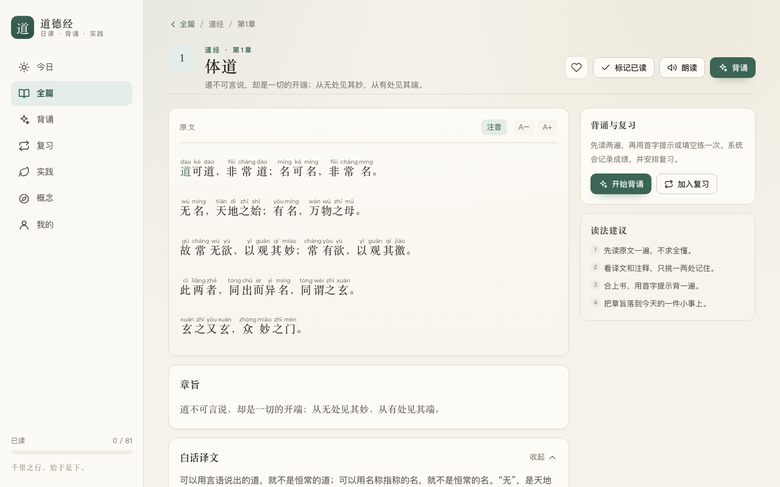
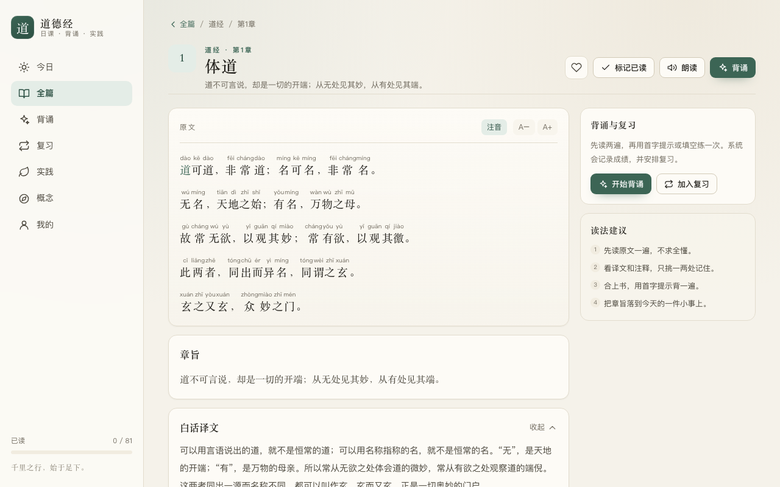
fix(chapter): 注音改用伪元素，复制原文不再粘出拼音
ruby 的 rt 会被算进选区，选中原文复制会得到「道dào可kě道dào」。
改为整字用 span 包裹、拼音走 ::after 与不可见 ::before 占位：
正文节点只剩汉字，字宽仍按拼音撑开，长拼音不会互相压叠。
同时给逐字解析加上 hint 字段，通假、旧读一类提示单独成标签。

Changed region(s): [[0.2154, 0.308, 0.5231, 0.7392], [0.2154, 0.8316, 0.7077, 1.0], [0.2154, 0.77, 0.5538, 0.8008]]

diff --git a/src/styles/index.css b/src/styles/index.css
@@ -1888,24 +1888,59 @@ input[type='range'] {
   color: var(--accent);
 }
 
-/* 注音用 ruby 排在字上方，行高需留出拼音的位置 */
-.original-text ruby {
-  ruby-align: center;
+/*
+ * 注音用伪元素叠在字的上方，而不是 ruby：
+ * 1. ruby 的文字会被算进选区，复制原文会粘出拼音，这里正文只有汉字；
+ * 2. 用 ::before 放一份不可见的拼音占位，撑开字的宽度与行高，避免长拼音互相压叠。
+ */
+.original-text .zi {
+  position: relative;
+  display: inline-block;
+  text-align: center;
 }
 
-.original-text rt {
+.original-text .zi::before,
+.original-text .zi::after {
   font-family: var(--font-sans);
   font-size: max(10px, 0.42em);
   font-weight: 400;
-  line-height: 1.1;
+  line-height: 1.2;
   letter-spacing: 0.01em;
-  padding-inline: 1px;
-  color: var(--muted);
+  white-space: nowrap;
 }
 
+.original-text .zi::before {
+  content: attr(data-pinyin);
+  display: block;
+  visibility: hidden;
+}
+
+.original-text .zi::after {
+  content: attr(data-pinyin);
+  position: absolute;
+  top: 0;
+  left: 50%;
+  transform: translateX(-50%);
+  color: var(--muted);
+  user-select: none;
+  pointer-events: none;
+}
+
+.original-text .zi.is-first {
+  color: var(--accent);
+}
+
+/* 注音排在字的上方，行距要留出空间，否则上下两行会叠在一起 */
 .original-text.has-pinyin {
-  line-height: 2.9;
-  padding-top: 20px;
+  padding-top: 18px;
+}
+
+.original-text.has-pinyin p {
+  line-height: 1.55;
+}
+
+.original-text.has-pinyin p + p {
+  margin-top: 0.9em;
 }
 
 .gist-text {
@@ -2032,6 +2067,20 @@ input[type='range'] {
   font-size: 12.5px;
   line-height: 1.75;
   color: var(--ink-2);
+}
+
+/* 通假、旧读一类提示排在释义最前，用底色区分，避免与释义混读 */
+.gloss-hint {
+  display: inline-block;
+  margin-right: 6px;
+  padding: 0 5px;
+  border-radius: 4px;
+  background: var(--accent-soft);
+  color: var(--accent-strong);
+  font-size: 11.5px;
+  line-height: 1.6;
+  vertical-align: 1px;
+  white-space: nowrap;
 }
 
 .practice-editor-foot {

diff --git a/src/pages/ChapterPage.tsx b/src/pages/ChapterPage.tsx
@@ -202,11 +202,15 @@ function ChapterView({ chapter }: { chapter: Chapter }) {
                 ? gloss.map((line, lineIndex) => (
                     <p key={lineIndex}>
                       {line.map((token, tokenIndex) =>
+                        // 拼音走 CSS 伪元素，正文只留汉字，复制原文时不会带出注音
                         showPinyin && token.pinyin ? (
-                          <ruby key={tokenIndex}>
+                          <span
+                            className={lineIndex === 0 && tokenIndex === 0 ? 'zi is-first' : 'zi'}
+                            data-pinyin={token.pinyin}
+                            key={tokenIndex}
+                          >
                             {token.char}
-                            <rt>{token.pinyin}</rt>
-                          </ruby>
+                          </span>
                         ) : (
                           token.char
                         ),
@@ -281,7 +285,10 @@ function ChapterView({ chapter }: { chapter: Chapter }) {
                                 <span className="gloss-char">{token.char}</span>
                                 <span className="gloss-pinyin">{token.pinyin}</span>
                               </dt>
-                              <dd>{token.gloss}</dd>
+                              <dd>
+                                {token.hint ? <span className="gloss-hint">{token.hint}</span> : null}
+                                {token.gloss}
+                              </dd>
                             </div>
                           ) : null,
                         )}

diff --git a/src/test/app.test.tsx b/src/test/app.test.tsx
@@ -80,15 +80,19 @@ describe('章页', () => {
 
   it('第一章可切换注音并展开逐字解析', async () => {
     const user = userEvent.setup()
-    renderApp('/chapters/1')
-    expect(screen.getAllByText('dào').length).toBeGreaterThan(0)
+    const { container } = renderApp('/chapters/1')
+    // 拼音写在伪元素的 attr() 里，正文节点只留汉字，复制原文不会带出注音
+    const annotated = container.querySelectorAll('.original-text .zi[data-pinyin="dào"]')
+    expect(annotated.length).toBeGreaterThan(0)
+    expect(container.querySelector('.original-text')?.textContent).not.toMatch(/[a-z]/)
 
     await user.click(screen.getByRole('button', { name: '注音' }))
-    expect(screen.queryByText('dào')).not.toBeInTheDocument()
+    expect(container.querySelectorAll('.original-text .zi')).toHaveLength(0)
     expect(getSnapshot().settings.showPinyin).toBe(false)
 
     await user.click(screen.getByRole('button', { name: /逐字解析/ }))
     expect(screen.getByText(/宇宙的本原与根本规律/)).toBeInTheDocument()
+    expect(screen.getByText('不读 jiǎo')).toBeInTheDocument()
   })
 })
 

diff --git a/src/test/data.test.ts b/src/test/data.test.ts
@@ -95,9 +95,12 @@ describe('注音与逐字解析', () => {
           if (HAN.test(token.char)) {
             expect(token.pinyin).toMatch(PINYIN)
             expect(token.gloss?.length ?? 0).toBeGreaterThan(3)
+            // 通假、旧读之类的提示要短，写成长句说明应并入释义
+            expect(token.hint?.length ?? 0).toBeLessThanOrEqual(8)
           } else {
             expect(token.pinyin).toBeUndefined()
             expect(token.gloss).toBeUndefined()
+            expect(token.hint).toBeUndefined()
           }
         })
       })

diff --git a/src/data/glosses/part1.ts b/src/data/glosses/part1.ts
@@ -60,7 +60,7 @@ export const glosses1to20: Record<number, ChapterGloss> = {
       { char: '以', pinyin: 'yǐ', gloss: '连词。用来、以便。' },
       { char: '观', pinyin: 'guān', gloss: '动词。观察、体察。' },
       { char: '其', pinyin: 'qí', gloss: '代词。指道。' },
-      { char: '徼', pinyin: 'jiào', gloss: '名词。边际、端倪、迹象。' },
+      { char: '徼', pinyin: 'jiào', gloss: '名词。边际、端倪、迹象。', hint: '不读 jiǎo' },
       { char: '。' },
     ],
     [

diff --git a/src/data/glosses/types.ts b/src/data/glosses/types.ts
@@ -6,6 +6,8 @@ export interface CharGloss {
   pinyin?: string
   /** 逐字释义，标点省略 */
   gloss?: string
+  /** 读音或字形提示，如通假、旧读，普通读音省略 */
+  hint?: string
 }
 
 /** 一句原文的逐字条目，顺序与原文完全一致，标点也占一项 */
